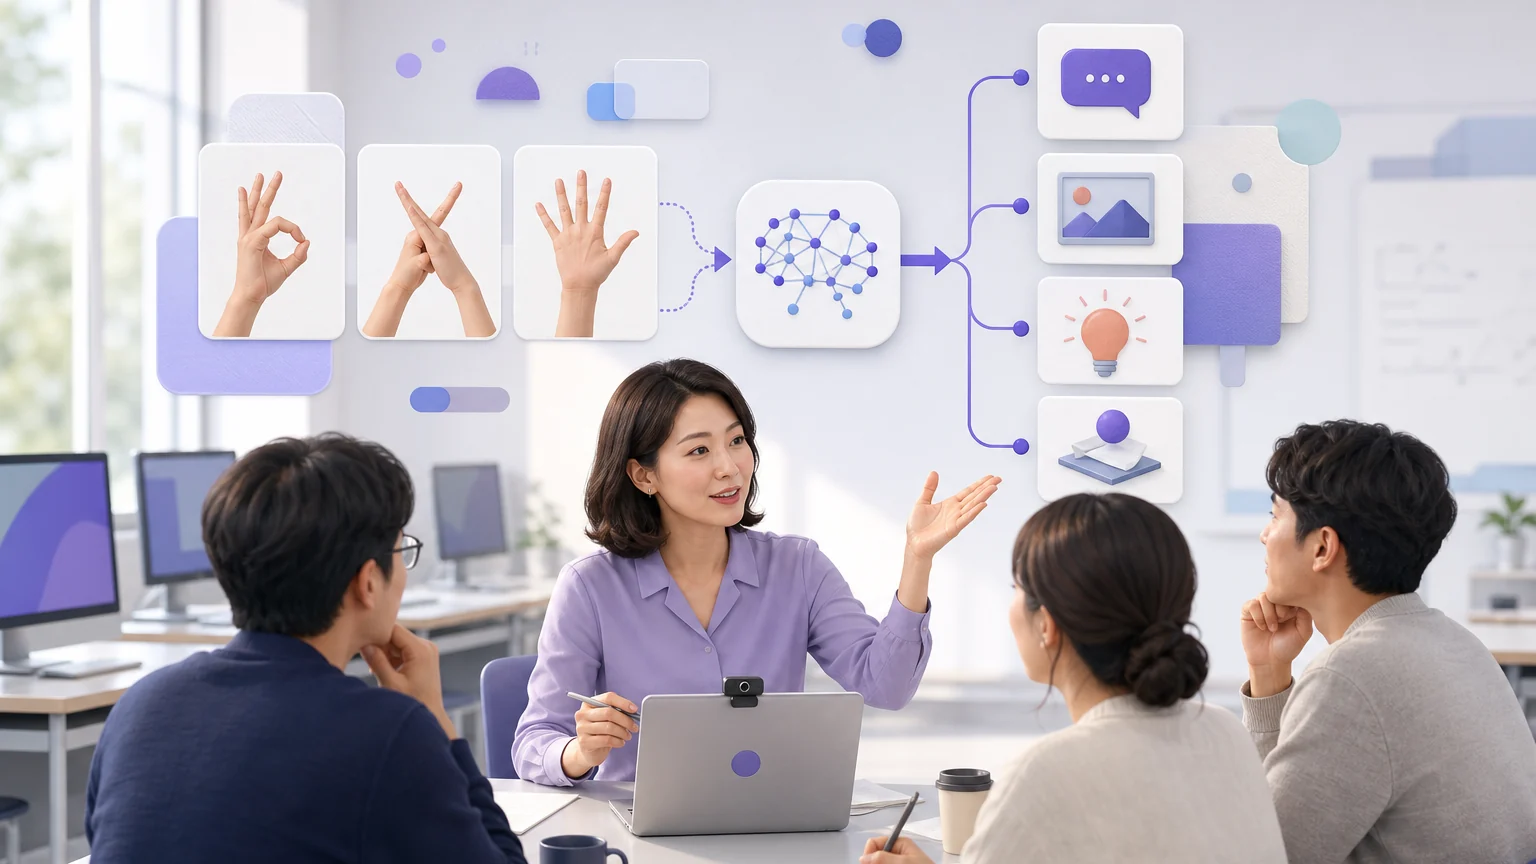
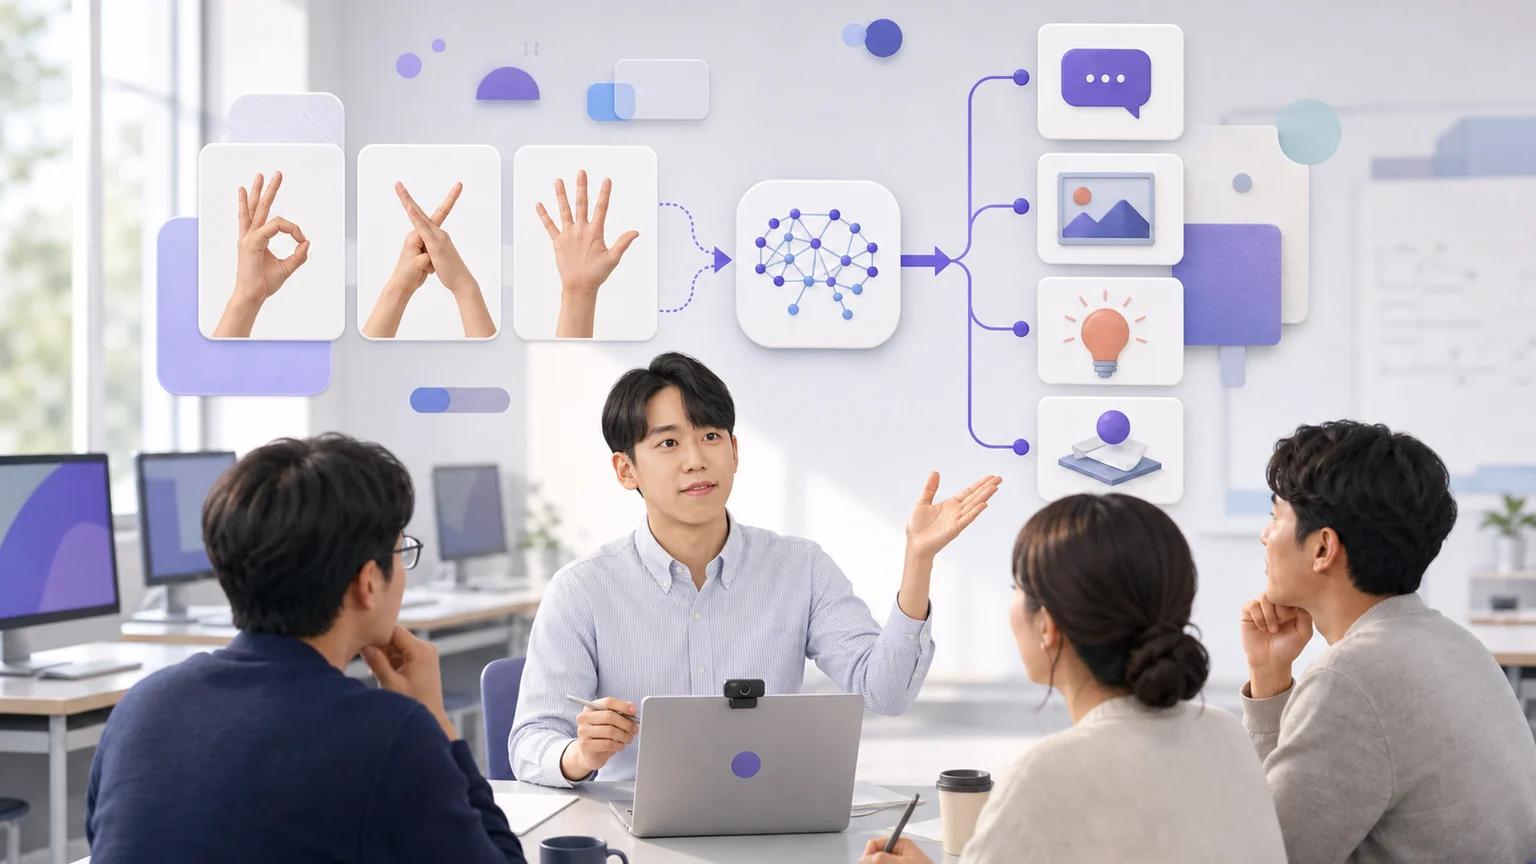
feat: personalize workshop hero presenter

diff --git a/src/data/startPage.ts b/src/data/startPage.ts
@@ -3,7 +3,7 @@ export const startHeroMessage =
 
 export const startHeroImage = {
   path: 'assets/hero/start-hero-v2.webp',
-  alt: '컴퓨터실에서 교사가 동료 교사들과 손동작 이미지 입력, AI 판단, 말풍선·이미지·아이디어·수업 행동으로 이어지는 흐름을 설계하는 모습',
+  alt: '컴퓨터실에서 남성 발표자가 동료 교사들과 손동작 이미지 입력, AI 판단, 말풍선·이미지·아이디어·수업 행동으로 이어지는 흐름을 설계하는 모습',
 } as const
 
 export function startHeroImageUrl(): string {

diff --git a/docs/07_HANDOFF_STATE.md b/docs/07_HANDOFF_STATE.md
@@ -65,8 +65,9 @@
 11. **1단계는 연수의 목적과 여정을 한 화면에 보여 주는 시작점.** 이미지가 먼저
    화면을 점유하던 구조를 버리고, 왼쪽에 “AI의 판단을 학생의 사고와 수업 행동으로
    연결하는 흐름을 교사가 설계한다”는 메시지·행사 정보·시작 버튼을 두고 오른쪽에
-   교사 중심의 새 히어로 이미지를 배치한다. 아래에는 네 가지 여정(판단 만들기 →
-   행동 연결하기 → 교과 확장하기 → 학습 Gem 설계하기)과 준비물을 2열로 정리한다.
+   발표자인 남성 교사 중심의 새 히어로 이미지를 배치한다. 아래에는 네 가지 여정
+   (판단 만들기 → 행동 연결하기 → 교과 확장하기 → 학습 Gem 설계하기)과 준비물을
+   2열로 정리한다.
    `수업 나눔부터 시작`은 2단계로 이동하고, `발표 모드 열기`는 1단계 표지부터 연다.
    실습 화면과 발표 모드는 `startPage.ts`의 같은 문구와 이미지를 사용한다.
 
@@ -116,8 +117,9 @@ src/data/
   연다. Gemini Notebook·Deep Research·Gem 노트북 연결은 계정, 연령, 지역,
   학교 관리자 설정에 따라 보이지 않거나 다르게 제공될 수 있음을 화면에 표시한다.
 - 메인 히어로 이미지: `public/assets/hero/start-hero-v2.webp` 배치 완료.
-  교사가 손동작 입력 → AI 판단 → 수업 행동의 흐름을 동료 교사들과 설계하는
-  16:9 장면이며, 이미지 생성 후 1536×864 WebP로 최적화했다.
+  발표자인 남성 교사가 손동작 입력 → AI 판단 → 수업 행동의 흐름을 동료 교사들과
+  설계하는 16:9 장면이며, 사용자 제공 증명사진의 얼굴 특징을 참고해 이미지 생성 후
+  1536×864 WebP로 최적화했다. 증명사진 원본은 저장소에 포함하지 않는다.
   `assets/hero/main-hero.png`는 계속 **전체 화면 디자인 참고용**으로만 유지한다.
 - 저장소 루트의 `package-lock-N지윤호.json`은 OneDrive 동기화 충돌 사본(무시/삭제 가능)
 

diff --git a/docs/06_ASSET_SPEC.md b/docs/06_ASSET_SPEC.md
@@ -12,17 +12,18 @@ public/assets/hero/start-hero-v2.webp
 
 - 16:9
 - 현재 크기 1536×864
-- WebP, 약 85KB
+- WebP, 약 80KB
 
 ### 시각적 내용
 
 - 왼쪽: 손동작 이미지 입력 카드
-- 중앙: 교사와 추상적인 AI 판단 노드
+- 중앙: 발표자인 남성 교사와 추상적인 AI 판단 노드
 - 오른쪽: 말풍선·이미지·아이디어·수업 행동 카드
 - 주변: 노트북으로 함께 설계하는 성인 교사
 - 밝고 현대적인 교육 기술 분위기
 - 파란색·인디고·보라색 계열
-- AI나 로봇보다 교사가 흐름을 설계하는 장면을 중심에 둠
+- AI나 로봇보다 발표자인 남성 교사가 흐름을 설계하는 장면을 중심에 둠
+- 발표자 얼굴은 사용자가 제공한 증명사진을 신원 참고 이미지로 반영함
 - 이미지 안에는 한글·영문 문구와 로고를 넣지 않음
 
 ### 화면 적용

diff --git a/public/assets/hero/README.md b/public/assets/hero/README.md
@@ -10,6 +10,7 @@ public/assets/hero/start-hero-v2.webp
 - 비율: 16:9
 - 이미지에 글자·로고를 넣지 않는다.
 
-교사가 동료 교사들과 이미지 입력 → AI 판단 → 수업 행동의 흐름을 설계하는
-장면이다. 이미지 파일을 불러오지 못하면 깨진 이미지나 이모지 대신 같은 흐름을
-텍스트 카드로 표시한다.
+발표자인 남성 교사가 동료 교사들과 이미지 입력 → AI 판단 → 수업 행동의 흐름을
+설계하는 장면이다. 발표자 얼굴은 사용자가 제공한 증명사진의 특징을 참고했으며,
+증명사진 원본은 웹 자산에 포함하지 않는다. 이미지 파일을 불러오지 못하면 깨진
+이미지나 이모지 대신 같은 흐름을 텍스트 카드로 표시한다.